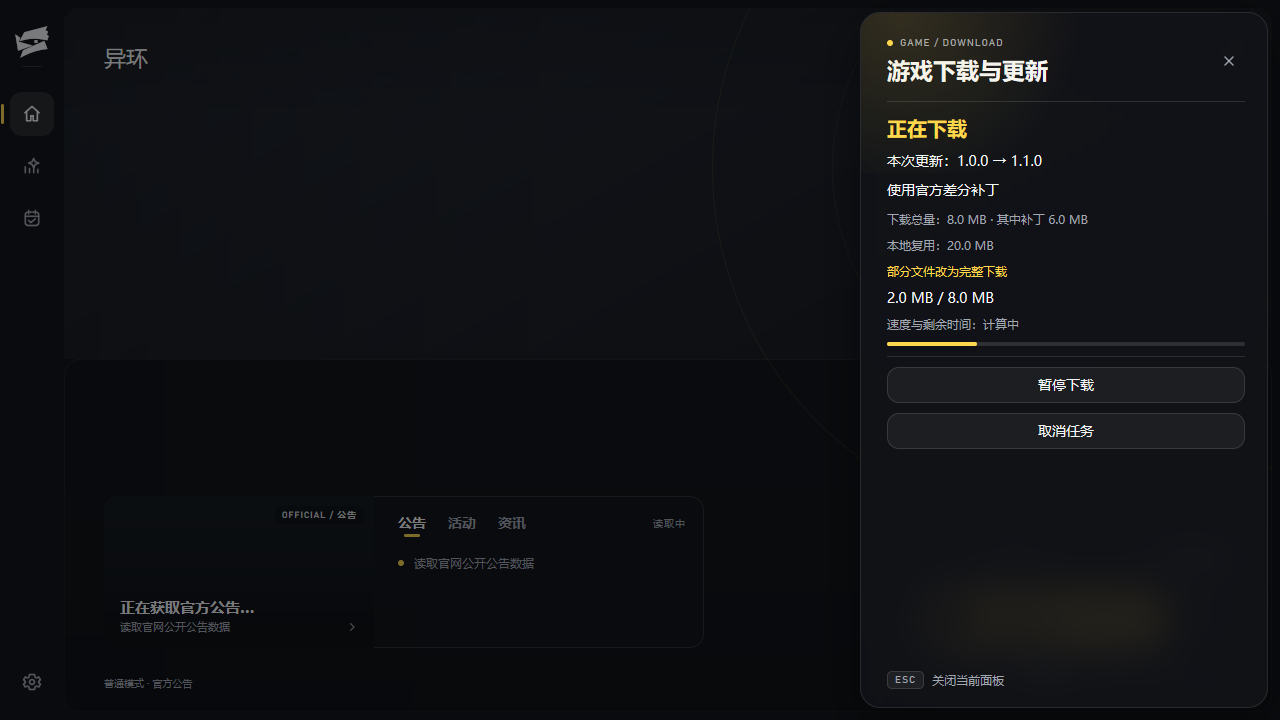
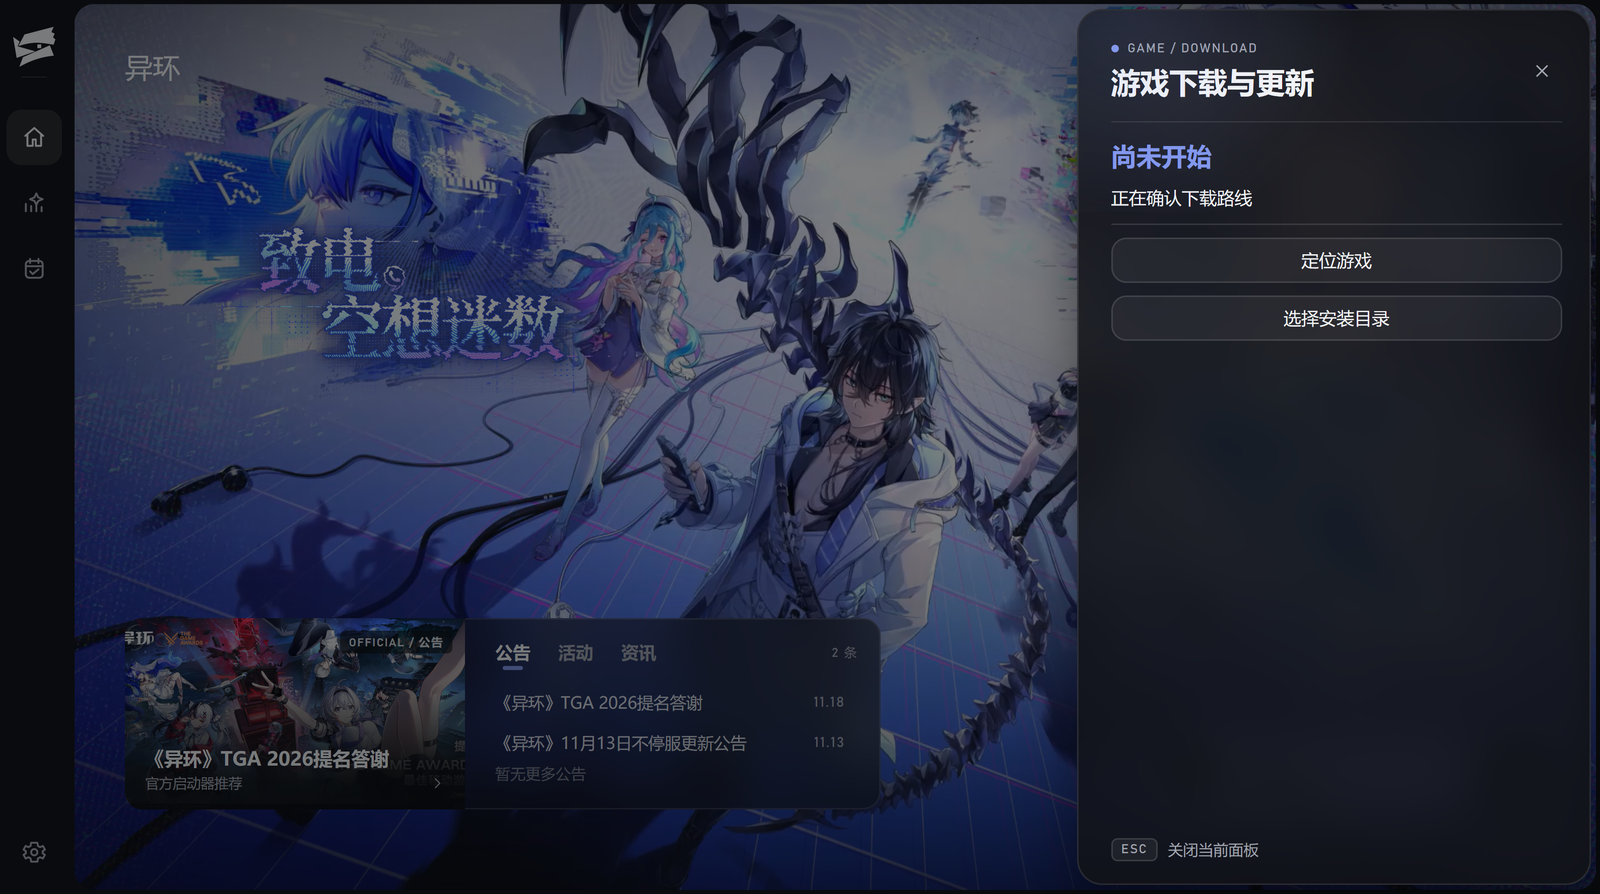
Show live Oddward screenshots in README

diff --git a/README.md b/README.md
@@ -16,15 +16,15 @@ Oddward 可以启动、校验和更新《异环》，在本机保存常用游戏
 
 Oddward 支持 **Windows 10 / 11 x64**。在[最新发行页](https://github.com/nerv-base/Oddward/releases/latest)的 **Assets** 中下载 `oddward-<版本>-setup.exe` 并运行安装。安装包已包含登录窗口及其 .NET 运行库。[v0.1.0 发布说明](https://github.com/nerv-base/Oddward/releases/tag/v0.1.0)
 
-1. **已有游戏时**，在主页打开「游戏下载与更新」，点击「定位游戏」并选择现有安装。定位后可重新校验文件或检查游戏更新。
-2. **首次安装时**，在同一面板点击「选择安装目录」，选一个空目录，然后规划并确认下载。Oddward 下载游戏资源后，请先用官方启动器补齐运行组件。
+1. **已有游戏时**，点击「定位游戏」并选择现有安装。v0.1.0 的入口是主页主按钮。下方截图中的开发界面把它移到了「下载游戏」下方。定位后可重新校验文件或检查游戏更新。
+2. **首次安装时**，打开「游戏下载与更新」面板，选择一个空目录，然后规划并确认下载。开发界面可直接点击主页「下载游戏」进入。Oddward 下载游戏资源后，请用官方启动器补齐运行组件。
 3. **准备好游戏后**，点击「启动游戏」，按提示完成首次启动确认和 Windows UAC 授权，再在随游戏显示的登录窗口中用手机验证码或已保存的账号登录。勾选「在此设备保存账号」后，下次可以直接选择该账号，本机最多保存 16 个。
 
 如果游戏文件不完整，或当前游戏版本与登录组件不兼容，请使用官方启动器修复或启动。
 
 ## 界面截图
 
-截图由 Oddward 实际界面离线渲染，公告、下载进度和角色数据为演示示例。点击图片可查看原尺寸。
+以下为 Oddward 开发版的实际窗口截图。主页显示国服官方启动器的版本背景和在线公告，抽卡与签到页展示未登录时的界面。点击图片可放大。
 
 | 启动器主页 | 游戏下载与更新 |
 | :---: | :---: |
@@ -59,7 +59,7 @@ Oddward 支持 **Windows 10 / 11 x64**。在[最新发行页](https://github.com
 
 ## 公告与外观
 
-主页展示国服官方公告、活动、资讯及正文。可以提供自己的背景视频、静态图、标志或标语。未指定本地标语时，Oddward 会尝试读取国服官网当前标语，离线时使用上次校验成功的缓存。
+主页展示国服官方公告、活动、资讯及正文。开发版会按国服官方启动器的版本清单自动获取动态背景和静态封面，刷新失败时使用已校验的缓存。v0.1.0 可通过启动参数指定本地背景。未指定本地标语时，Oddward 会尝试读取国服官网的当前标语，离线时使用上次校验成功的缓存。
 
 <details>
 <summary>启动参数示例</summary>
